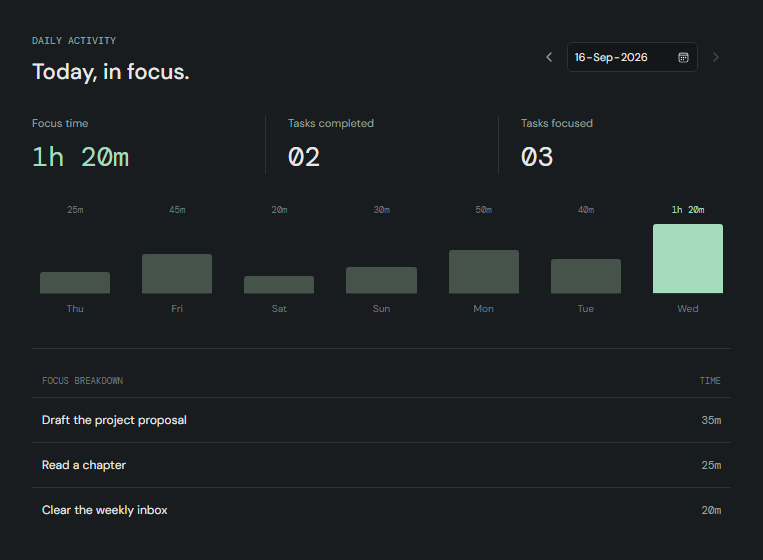
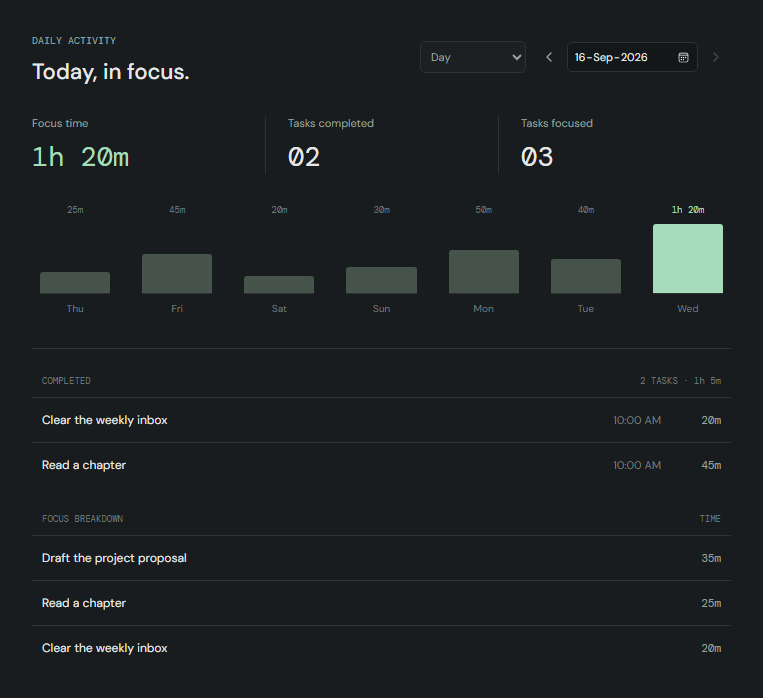
Release v1.2.0 with activity date ranges
Activity can show tasks completed in the last 7 days, this month, last month, or a custom date range, with focus time totals and a grouped chart. Archived tasks are included. Updates README and activity screenshot, and lets the Windows build helper use any npm on PATH.

diff --git a/src/App.tsx b/src/App.tsx
@@ -3,7 +3,7 @@ import { DndContext, KeyboardSensor, PointerSensor, closestCenter, useSensor, us
 import { SortableContext, sortableKeyboardCoordinates, useSortable, verticalListSortingStrategy } from '@dnd-kit/sortable'
 import { CSS } from '@dnd-kit/utilities'
 import { Activity, Archive, ArrowDown, ArrowUp, ArrowUpRight, CalendarDays, Check, CheckCheck, ChevronLeft, ChevronRight, Circle, CircleCheck, Clock3, GripVertical, ListOrdered, Maximize2, Minimize2, MoreHorizontal, Pause, Pencil, Pin, PinOff, Play, Plus, RotateCcw, Search, Settings, ShieldCheck, Trash2, TriangleAlert, X } from 'lucide-react'
-import { clock, dailySummary, dayKey, duration, makeTask, parseTags, taskMilliseconds, transition, type Action, type QueueState, type QueueTask } from './model'
+import { clock, dailySummary, dayKey, duration, makeTask, parseDayKey, parseTags, presetRange, rangeBuckets, rangeSummary, taskMilliseconds, transition, type Action, type ActivityRange, type QueueState, type QueueTask } from './model'
 import { desktop, saveQueue } from './storage'
 import { dragOverlay, initializeTray, saveOverlayPreferences, setCompactWindow, watchOverlayPreferences } from './windowMode'
 import { watchSession, type SessionState } from './session'
@@ -11,6 +11,11 @@ import { loadStartupSettings, saveStartupSettings, type StartupSettings } from '
 import privacyNotice from '../PRIVACY.txt?raw'
 
 type View = 'queued' | 'completed' | 'archived' | 'activity'
+const rangeTitles = { week: 'Last 7 days', month: 'This month', 'last-month': 'Last month', custom: 'Custom range' } as const
+
+function formatDay(key: string, options: Intl.DateTimeFormatOptions = { month: 'short', day: 'numeric', year: 'numeric' }) {
+  return parseDayKey(key).toLocaleDateString(undefined, options)
+}
 type DialogState = { kind: 'edit'; task?: QueueTask } | { kind: 'delete'; task: QueueTask } | { kind: 'startup'; firstRun: boolean } | { kind: 'privacy' | 'purge-history' } | null
 
 function IconButton({ label, children, onClick, disabled = false, active = false }: { label: string; children: ReactNode; onClick: () => void; disabled?: boolean; active?: boolean }) {
@@ -152,6 +157,8 @@ export default function App({ initialState, initialStartup }: { initialState: Qu
   const locked = useRef(false)
   const lastLock = useRef(Date.now())
   const [activityDay, setActivityDay] = useState(dayKey(new Date()))
+  const [activityRange, setActivityRange] = useState<ActivityRange>('day')
+  const [customRange, setCustomRange] = useState({ from: activityDay, to: activityDay })
   const searchRef = useRef<HTMLInputElement>(null)
   const writeVersion = useRef(0)
   const sensors = useSensors(useSensor(PointerSensor, { activationConstraint: { distance: 6 } }), useSensor(KeyboardSensor, { coordinateGetter: sortableKeyboardCoordinates }))
@@ -315,21 +322,39 @@ export default function App({ initialState, initialStartup }: { initialState: Qu
   const running = state.runningSince !== null
   const today = dayKey(new Date(now))
   const summary = dailySummary(state, new Date(now), now)
-  const daySummary = dailySummary(state, new Date(`${activityDay}T12:00:00`), now)
   const allTags = [...new Set(state.tasks.flatMap(task => task.tags))].sort()
   const visible = state.tasks.filter(task => task.status === view
     && `${task.title} ${task.tags.join(' ')}`.toLowerCase().includes(search.toLowerCase())
     && (!tag || task.tags.includes(tag))
     && (!due || (due === 'today' ? task.due === today : due === 'overdue' ? !!task.due && task.due < today : !task.due)))
   const counts = { queued: queued.length, completed: state.tasks.filter(task => task.status === 'completed').length, archived: state.tasks.filter(task => task.status === 'archived').length }
-  const week = Array.from({ length: 7 }, (_, index) => {
-    const date = new Date(`${activityDay}T12:00:00`)
-    date.setDate(date.getDate() - 6 + index)
-    return { date, ...dailySummary(state, date, now) }
-  })
-  const maxTime = Math.max(3600000, ...week.map(day => day.milliseconds))
+  const shownRange = activityRange === 'day' ? { from: activityDay, to: activityDay } : activityRange === 'custom' ? customRange : presetRange(activityRange, new Date(now))
+  const activity = rangeSummary(state, parseDayKey(shownRange.from), parseDayKey(shownRange.to), now)
+  const completedTime = activity.completed.reduce((total, task) => total + taskMilliseconds(state, task.id, now), 0)
+  const chart = activityRange === 'day'
+    ? { unit: 'day' as const, buckets: Array.from({ length: 7 }, (_, index) => { const date = parseDayKey(activityDay); date.setDate(date.getDate() - 6 + index); return { from: dayKey(date), to: dayKey(date) } }) }
+    : rangeBuckets(shownRange.from, shownRange.to)
+  const bars = chart.buckets.map(bucket => ({ ...bucket, milliseconds: rangeSummary(state, parseDayKey(bucket.from), parseDayKey(bucket.to), now).milliseconds }))
+  const maxTime = Math.max(3600000, ...bars.map(bar => bar.milliseconds))
+  const labelEvery = bars.length <= 7 ? 1 : Math.ceil(bars.length / 7)
 
   function changeView(next: View) { setView(next); setSearch(''); setTag(''); setDue('') }
+  function changeRange(next: ActivityRange) {
+    if (next === 'custom') setCustomRange(shownRange)
+    setActivityRange(next)
+  }
+  function changeCustom(edge: 'from' | 'to', value: string) {
+    if (!value || value > today) return
+    setCustomRange(edge === 'from' ? { from: value, to: value > customRange.to ? value : customRange.to } : { from: value < customRange.from ? value : customRange.from, to: value })
+  }
+  function selectBar(bucket: { from: string; to: string }) {
+    if (bucket.from === bucket.to) { setActivityRange('day'); setActivityDay(bucket.from) } else { setActivityRange('custom'); setCustomRange(bucket) }
+  }
+  function barLabel(bucket: { from: string }) {
+    if (chart.unit === 'month') return formatDay(bucket.from, { month: 'short' })
+    if (chart.unit === 'week') return formatDay(bucket.from, { month: 'short', day: 'numeric' })
+    return formatDay(bucket.from, bars.length <= 7 ? { weekday: 'short' } : { day: 'numeric' })
+  }
   function dragEnd(event: DragEndEvent) {
     if (event.over && event.active.id !== event.over.id) dispatch({ type: 'move', id: String(event.active.id), overId: String(event.over.id) })
   }
@@ -389,11 +414,19 @@ export default function App({ initialState, initialStartup }: { initialState: Qu
         <div className="list-heading"><span>{view === 'queued' ? 'YOUR QUEUE' : view === 'completed' ? 'COMPLETED TASKS' : 'ARCHIVED TASKS'}</span><span>{visible.length} {visible.length === 1 ? 'TASK' : 'TASKS'}</span></div>
         {visible.length ? <DndContext sensors={sensors} collisionDetection={closestCenter} onDragEnd={dragEnd}><SortableContext items={visible.map(task => task.id)} strategy={verticalListSortingStrategy}><ul className="task-list">{visible.map((task, index) => <TaskRow key={task.id} task={task} index={index} state={state} now={now} dispatch={dispatch} edit={() => setDialog({ kind: 'edit', task })} remove={() => setDialog({ kind: 'delete', task })} previous={visible[index - 1]?.id} next={visible[index + 1]?.id} />)}</ul></SortableContext></DndContext> : <div className="empty-state">{search || tag || due ? <Search /> : view === 'queued' ? <ListOrdered /> : view === 'completed' ? <CheckCheck /> : <Archive />}<h3>{search || tag || due ? 'No matching tasks.' : view === 'queued' ? 'Your queue is clear.' : view === 'completed' ? 'Nothing completed yet.' : 'Nothing archived yet.'}</h3>{search || tag || due ? <button className="secondary-button" onClick={() => { setSearch(''); setTag(''); setDue('') }}>Clear filters</button> : view === 'queued' && <button className="text-button" onClick={() => setDialog({ kind: 'edit' })}><Plus size={15} />Add a task</button>}</div>}
         {!!visible.length && view === 'queued' && <button className="add-row" onClick={() => setDialog({ kind: 'edit' })}><Plus size={16} />Add a task</button>}
-      </section> : <section className="activity-section" aria-label="Daily activity">
-        <div className="activity-header"><div><span className="eyebrow">DAILY ACTIVITY</span><h2>{activityDay === today ? 'Today, in focus.' : new Date(`${activityDay}T12:00:00`).toLocaleDateString(undefined, { month: 'long', day: 'numeric' })}</h2></div><div className="date-controls"><IconButton label="Previous day" onClick={() => changeDay(-1)}><ChevronLeft /></IconButton><input aria-label="Activity date" type="date" max={today} value={activityDay} onChange={event => { if (event.target.value && event.target.value <= today) setActivityDay(event.target.value) }} /><IconButton label="Next day" disabled={activityDay >= today} onClick={() => changeDay(1)}><ChevronRight /></IconButton></div></div>
-        <div className="activity-stats"><div><span>Focus time</span><strong>{duration(daySummary.milliseconds)}</strong></div><div><span>Tasks completed</span><strong>{daySummary.completed.toString().padStart(2, '0')}</strong></div><div><span>Tasks focused</span><strong>{daySummary.byTask.length.toString().padStart(2, '0')}</strong></div></div>
-        <div className="week-chart" aria-label="Focus time over seven days">{week.map(day => <button className={dayKey(day.date) === activityDay ? 'selected' : ''} key={dayKey(day.date)} title={`${day.date.toLocaleDateString()}: ${duration(day.milliseconds)}`} onClick={() => setActivityDay(dayKey(day.date))}><span className="chart-value">{duration(day.milliseconds)}</span><span className="bar-track"><span style={{ height: `${Math.max(2, day.milliseconds / maxTime * 100)}%` }} /></span><span>{day.date.toLocaleDateString(undefined, { weekday: 'short' })}</span></button>)}</div>
-        <div className="list-heading"><span>FOCUS BREAKDOWN</span><span>TIME</span></div>{daySummary.byTask.length ? <ul className="breakdown-list">{daySummary.byTask.map(([id, entry]) => <li key={id}><span>{entry.title}</span><strong>{duration(entry.milliseconds)}</strong></li>)}</ul> : <div className="empty-state small"><Clock3 /><h3>No focus time recorded.</h3></div>}
+      </section> : <section className="activity-section" aria-label="Activity">
+        <div className="activity-header"><div>{activityRange === 'day' ? <><span className="eyebrow">DAILY ACTIVITY</span><h2>{activityDay === today ? 'Today, in focus.' : formatDay(activityDay, { month: 'long', day: 'numeric' })}</h2></> : <><span className="eyebrow">ACTIVITY</span><h2>{rangeTitles[activityRange]}</h2><span className="range-dates">{formatDay(shownRange.from)} – {formatDay(shownRange.to)}</span></>}</div>
+          <div className="activity-controls"><select aria-label="Activity range" value={activityRange} onChange={event => changeRange(event.target.value as ActivityRange)}><option value="day">Day</option><option value="week">Last 7 days</option><option value="month">This month</option><option value="last-month">Last month</option><option value="custom">Custom range</option></select>
+            {activityRange === 'day' && <div className="date-controls"><IconButton label="Previous day" onClick={() => changeDay(-1)}><ChevronLeft /></IconButton><input aria-label="Activity date" type="date" max={today} value={activityDay} onChange={event => { if (event.target.value && event.target.value <= today) setActivityDay(event.target.value) }} /><IconButton label="Next day" disabled={activityDay >= today} onClick={() => changeDay(1)}><ChevronRight /></IconButton></div>}
+            {activityRange === 'custom' && <div className="date-controls"><input aria-label="From date" type="date" max={today} value={customRange.from} onChange={event => changeCustom('from', event.target.value)} /><span className="range-separator">–</span><input aria-label="To date" type="date" max={today} value={customRange.to} onChange={event => changeCustom('to', event.target.value)} /></div>}
+          </div></div>
+        <div className="activity-stats"><div><span>Focus time</span><strong>{duration(activity.milliseconds)}</strong></div><div><span>Tasks completed</span><strong>{activity.completed.length.toString().padStart(2, '0')}</strong></div><div><span>Tasks focused</span><strong>{activity.byTask.length.toString().padStart(2, '0')}</strong></div></div>
+        <div className={`week-chart${bars.length > 7 ? ' dense' : ''}`} style={{ gridTemplateColumns: `repeat(${bars.length}, minmax(0, 1fr))` }} aria-label={`Focus time by ${chart.unit}`}>{bars.map((bar, index) => {
+          const label = `${bar.from === bar.to ? formatDay(bar.from) : `${formatDay(bar.from)} – ${formatDay(bar.to)}`}: ${duration(bar.milliseconds)}`
+          return <button className={activityRange === 'day' && bar.from === activityDay ? 'selected' : ''} key={bar.from} title={label} aria-label={label} onClick={() => selectBar(bar)}><span className="chart-value">{duration(bar.milliseconds)}</span><span className="bar-track"><span style={{ height: `${Math.max(2, bar.milliseconds / maxTime * 100)}%` }} /></span><span className="bar-label">{index % labelEvery === 0 ? barLabel(bar) : ''}</span></button>
+        })}</div>
+        <div className="list-heading"><span>COMPLETED</span><span>{activity.completed.length} {activity.completed.length === 1 ? 'TASK' : 'TASKS'} · {duration(completedTime)}</span></div>{activity.completed.length ? <ul className="completed-list">{activity.completed.map(task => <li key={task.id}><span className="completed-title">{task.title}{task.status === 'archived' && <span className="status-badge">Archived</span>}</span><span className="completed-when">{activityRange === 'day' ? new Date(task.completedAt ?? 0).toLocaleTimeString(undefined, { hour: 'numeric', minute: '2-digit' }) : new Date(task.completedAt ?? 0).toLocaleDateString(undefined, { month: 'short', day: 'numeric' })}</span><strong title="Total focus time">{duration(taskMilliseconds(state, task.id, now))}</strong></li>)}</ul> : <div className="empty-state small"><CheckCheck /><h3>No tasks completed in this period.</h3></div>}
+        <div className="list-heading spaced"><span>FOCUS BREAKDOWN</span><span>TIME</span></div>{activity.byTask.length ? <ul className="breakdown-list">{activity.byTask.map(([id, entry]) => <li key={id}><span>{entry.title}</span><strong>{duration(entry.milliseconds)}</strong></li>)}</ul> : <div className="empty-state small"><Clock3 /><h3>No focus time recorded.</h3></div>}
       </section>}
     </main>
     {notice && <div className="notice" role="alert"><span>{notice}</span><IconButton label="Dismiss message" onClick={() => setNotice('')}><X /></IconButton></div>}

diff --git a/src/model.test.ts b/src/model.test.ts
@@ -1,6 +1,6 @@
 import { describe, it } from 'node:test'
 import assert from 'node:assert/strict'
-import { checkpoint, dailySummary, emptyState, persistedState, restoreState, taskMilliseconds, transition, type QueueState, type QueueTask } from './model.ts'
+import { checkpoint, dailySummary, emptyState, persistedState, presetRange, rangeBuckets, rangeSummary, restoreState, taskMilliseconds, transition, type QueueState, type QueueTask } from './model.ts'
 
 const first: QueueTask = { id: 'first', title: 'First task', tags: ['work'], due: '', status: 'queued', createdAt: 0, completedAt: null }
 const second: QueueTask = { ...first, id: 'second', title: 'Second task' }
@@ -153,5 +153,66 @@ describe('queue and focus', () => {
     assert.equal(transition(state, { type: 'focus', id: 'first' }, 2000).focusId, null)
     assert.throws(() => restoreState({ version: 2 }))
     assert.throws(() => restoreState({ ...setup(), tasks: [first, first] }))
+  })
+})
+
+describe('activity ranges', () => {
+  it('builds last 7 days, this month and last month from local calendar days', () => {
+    const today = new Date(2026, 2, 5, 15, 30)
+    assert.deepEqual(presetRange('week', today), { from: '2026-02-27', to: '2026-03-05' })
+    assert.deepEqual(presetRange('month', today), { from: '2026-03-01', to: '2026-03-05' })
+    assert.deepEqual(presetRange('last-month', today), { from: '2026-02-01', to: '2026-02-28' })
+    assert.deepEqual(presetRange('last-month', new Date(2026, 0, 1)), { from: '2025-12-01', to: '2025-12-31' })
+  })
+
+  it('includes completed and archived tasks within inclusive day bounds, newest first', () => {
+    const at = (day: number, hour = 12, minute = 0, second = 0, millisecond = 0) => new Date(2026, 2, day, hour, minute, second, millisecond).getTime()
+    const done = (id: string, completedAt: number | null, status: QueueTask['status'] = 'completed'): QueueTask => ({ ...first, id, title: id, status, completedAt })
+    const state: QueueState = {
+      ...emptyState(),
+      tasks: [
+        done('before', at(1, 23, 59, 59, 999)),
+        done('start', at(2, 0)),
+        done('archived', at(5), 'archived'),
+        done('end', at(8, 23, 59, 59, 999)),
+        done('after', at(9, 0)),
+        done('restored', null, 'queued'),
+        done('archived-unfinished', null, 'archived'),
+      ],
+    }
+    const summary = rangeSummary(state, new Date(2026, 2, 2), new Date(2026, 2, 8), at(12))
+    assert.deepEqual(summary.completed.map(task => task.id), ['end', 'archived', 'start'])
+    assert.equal(dailySummary(state, new Date(2026, 2, 5), at(12)).completed, 1)
+  })
+
+  it('sums focus time across days and clips sessions at range edges', () => {
+    const state: QueueState = {
+      ...setup(),
+      sessions: [
+        { taskId: 'first', title: 'First task', start: new Date(2026, 2, 1, 23, 50).getTime(), end: new Date(2026, 2, 2, 0, 10).getTime() },
+        { taskId: 'second', title: 'Second task', start: new Date(2026, 2, 4, 9).getTime(), end: new Date(2026, 2, 4, 10).getTime() },
+        { taskId: 'first', title: 'First task', start: new Date(2026, 2, 8, 23, 55).getTime(), end: new Date(2026, 2, 9, 0, 5).getTime() },
+      ],
+    }
+    const summary = rangeSummary(state, new Date(2026, 2, 2), new Date(2026, 2, 8), Date.now())
+    assert.equal(summary.milliseconds, (10 + 60 + 5) * 60000)
+    assert.deepEqual(summary.byTask.map(([id, entry]) => [id, entry.milliseconds]), [['second', 3600000], ['first', 15 * 60000]])
+  })
+
+  it('charts by day up to 31 days, by week up to 26 weeks, then by month', () => {
+    const march = rangeBuckets('2026-03-01', '2026-03-31')
+    assert.equal(march.unit, 'day')
+    assert.equal(march.buckets.length, 31)
+    assert.deepEqual(march.buckets.slice(6, 9).map(bucket => bucket.from), ['2026-03-07', '2026-03-08', '2026-03-09'])
+    assert.deepEqual(march.buckets.at(-1), { from: '2026-03-31', to: '2026-03-31' })
+    const weeks = rangeBuckets('2026-01-01', '2026-02-01')
+    assert.equal(weeks.unit, 'week')
+    assert.deepEqual(weeks.buckets.map(bucket => bucket.from), ['2026-01-01', '2026-01-08', '2026-01-15', '2026-01-22', '2026-01-29'])
+    assert.deepEqual(weeks.buckets.at(-1), { from: '2026-01-29', to: '2026-02-01' })
+    const months = rangeBuckets('2025-01-15', '2025-12-31')
+    assert.equal(months.unit, 'month')
+    assert.equal(months.buckets.length, 12)
+    assert.deepEqual(months.buckets[0], { from: '2025-01-15', to: '2025-01-31' })
+    assert.deepEqual(months.buckets.at(-1), { from: '2025-12-01', to: '2025-12-31' })
   })
 })

diff --git a/tests/workflows.spec.ts b/tests/workflows.spec.ts
@@ -284,3 +284,74 @@ test('overlay is translucent, stays 88px tall and handles long task text at narr
     await page.screenshot({ path: `test-results/overlay-${width}-hover.png`, omitBackground: true })
   }
 })
+
+test('activity lists completed and archived tasks for 7 days, this month, last month and custom ranges', async ({ page }) => {
+  const at = (value: string) => new Date(value).getTime()
+  const task = (id: string, title: string, status: string, completedAt: number | null) => ({ id, title, tags: [], due: '', status, createdAt: at('2026-09-01T08:00:00'), completedAt })
+  const state = {
+    version: 1,
+    tasks: [
+      task('recent', 'Recent report', 'completed', at('2026-11-11T15:00:00')),
+      task('archived', 'Archived review', 'archived', at('2026-11-06T09:00:00')),
+      task('early', 'Early November', 'completed', at('2026-11-02T11:00:00')),
+      task('october', 'October wrap-up', 'completed', at('2026-10-20T17:00:00')),
+      task('september', 'Old September task', 'completed', at('2026-09-10T10:00:00')),
+      task('restored', 'Restored task', 'queued', null),
+    ],
+    sessions: [
+      { taskId: 'recent', title: 'Recent report', start: at('2026-11-11T14:00:00'), end: at('2026-11-11T15:00:00') },
+      { taskId: 'october', title: 'October wrap-up', start: at('2026-10-20T10:00:00'), end: at('2026-10-20T10:30:00') },
+    ],
+    focusId: null,
+    runningSince: null,
+  }
+  await page.clock.install({ time: new Date('2026-11-12T10:00:00') })
+  await page.addInitScript(state => {
+    if (!localStorage.getItem('priority-queue.v1')) localStorage.setItem('priority-queue.v1', JSON.stringify(state))
+  }, state)
+  await page.goto('/')
+  await page.getByRole('button', { name: 'Activity', exact: true }).click()
+  const range = page.getByLabel('Activity range')
+  const completed = page.locator('.completed-list li')
+  await expect(page.getByText('No tasks completed in this period.')).toBeVisible()
+
+  await range.selectOption('week')
+  await expect(page.getByRole('heading', { name: 'Last 7 days' })).toBeVisible()
+  await expect(completed).toHaveText([/^Recent report/, /^Archived reviewArchived/])
+  await expect(page.locator('.activity-section .list-heading').first()).toContainText('2 TASKS · 1h 0m')
+  await expect(page.locator('.activity-stats > div').nth(1)).toContainText('02')
+  await expect(page.locator('.week-chart button')).toHaveCount(7)
+
+  await range.selectOption('month')
+  await expect(completed).toHaveText([/^Recent report/, /^Archived review/, /^Early November/])
+  await expect(page.locator('.week-chart button')).toHaveCount(12)
+
+  await range.selectOption('last-month')
+  await expect(completed).toHaveText([/^October wrap-up/])
+  await expect(page.locator('.activity-stats > div').first()).toContainText('30m')
+  await expect(page.locator('.week-chart button')).toHaveCount(31)
+
+  await range.selectOption('custom')
+  await expect(page.getByLabel('From date')).toHaveValue('2026-10-01')
+  await expect(page.getByLabel('To date')).toHaveValue('2026-10-31')
+  await page.getByLabel('From date').fill('2026-09-01')
+  await expect(completed).toHaveText([/^October wrap-up/, /^Old September task/])
+  await expect(page.locator('.week-chart button')).toHaveCount(9)
+  await page.getByLabel('To date').fill('2026-09-30')
+  await expect(completed).toHaveText([/^Old September task/])
+  await page.getByLabel('From date').fill('2026-10-15')
+  await expect(page.getByLabel('To date')).toHaveValue('2026-10-15')
+  await expect(page.getByText('No tasks completed in this period.')).toBeVisible()
+
+  await range.selectOption('week')
+  await page.locator('.week-chart button').nth(5).click()
+  await expect(range).toHaveValue('day')
+  await expect(page.getByLabel('Activity date')).toHaveValue('2026-11-11')
+  await expect(completed).toHaveText([/^Recent report/])
+
+  await page.setViewportSize({ width: 360, height: 800 })
+  await range.selectOption('custom')
+  await page.getByLabel('From date').fill('2026-09-01')
+  expect(await page.evaluate(() => document.documentElement.scrollWidth <= window.innerWidth)).toBe(true)
+  await page.screenshot({ path: 'test-results/activity-range-mobile.png', fullPage: true })
+})

diff --git a/src/theme.css b/src/theme.css
@@ -133,6 +133,10 @@ h1 { font-size: 21px; line-height: 1.15; font-weight: 650; }
 .activity-section { padding: 28px 32px; }
 .activity-header { display: flex; justify-content: space-between; align-items: center; gap: 20px; }
 .activity-header h2 { font-size: 22px; font-weight: 500; margin-top: 8px; }
+.range-dates { display: block; font-size: 11px; color: var(--muted); margin-top: 6px; }
+.activity-controls { display: flex; flex-wrap: wrap; align-items: center; justify-content: flex-end; gap: 8px; }
+.activity-controls select { font-size: 11px; color: var(--muted); padding: 7px 6px; background: #1d2022; }
+.range-separator { color: var(--faint); padding-inline: 4px; }
 .date-controls { display: flex; align-items: center; gap: 3px; }
 .date-controls input { font-size: 11px; padding: 6px; width: 131px; min-width: 0; }
 .activity-stats { display: grid; grid-template-columns: repeat(3, minmax(0, 1fr)); margin-block: 30px; }
@@ -144,6 +148,11 @@ h1 { font-size: 21px; line-height: 1.15; font-weight: 650; }
 .week-chart { display: grid; grid-template-columns: repeat(7, minmax(0, 1fr)); height: 145px; gap: 16px; padding: 0 0 22px; border-bottom: 1px solid var(--line); margin-bottom: 26px; }
 .week-chart button { min-width: 0; display: flex; flex-direction: column; align-items: center; gap: 8px; color: var(--faint); font-size: 10px; padding: 0 8px; border-radius: 2px; }
 .week-chart button:hover { background: #ffffff05; }
+.week-chart.dense { gap: 3px; overflow-x: clip; }
+.week-chart.dense button { padding-inline: 0; }
+.week-chart.dense .chart-value { visibility: hidden; }
+.week-chart.dense .bar-label { align-self: flex-start; white-space: nowrap; }
+.week-chart.dense button:last-child .bar-label { align-self: flex-end; }
 .bar-track { display: flex; align-items: flex-end; height: 70px; width: 100%; border-bottom: 1px solid var(--line); }
 .bar-track > span { width: 100%; background: #46534b; border-radius: 3px 3px 0 0; }
 .selected .bar-track > span { background: var(--mint); }
@@ -153,6 +162,13 @@ h1 { font-size: 21px; line-height: 1.15; font-weight: 650; }
 .breakdown-list li { display: flex; gap: 20px; align-items: center; justify-content: space-between; padding: 14px 10px; border-top: 1px solid var(--line); font-size: 12px; }
 .breakdown-list li span { overflow-wrap: anywhere; min-width: 0; }
 .breakdown-list strong { font-family: var(--mono); font-size: 11px; color: var(--muted); white-space: nowrap; font-weight: 400; }
+.completed-list { list-style: none; margin: 0; padding: 0; }
+.completed-list li { display: flex; gap: 16px; align-items: center; padding: 14px 10px; border-top: 1px solid var(--line); font-size: 12px; }
+.completed-title { flex: 1; min-width: 0; overflow-wrap: anywhere; }
+.status-badge { font-family: var(--mono); font-size: 9px; color: var(--muted); background: #ffffff08; border-radius: 3px; padding: 2px 5px; margin-left: 8px; white-space: nowrap; }
+.completed-when { font-size: 11px; color: var(--faint); white-space: nowrap; }
+.completed-list strong { font-family: var(--mono); font-size: 11px; color: var(--muted); white-space: nowrap; font-weight: 400; min-width: 44px; text-align: right; }
+.list-heading.spaced { margin-top: 26px; }
 
 .app-footer { margin-top: auto; display: flex; align-items: center; justify-content: space-between; gap: 20px; min-height: 51px; border-top: 1px solid var(--line); padding: 14px 32px; font-family: var(--mono); font-size: 9px; color: var(--faint); }
 .app-footer > span:first-child { display: flex; align-items: center; gap: 7px; overflow-wrap: anywhere; min-width: 0; }

diff --git a/src/model.ts b/src/model.ts
@@ -151,9 +151,43 @@ export function dayKey(date: Date): string {
   return `${date.getFullYear()}-${String(date.getMonth() + 1).padStart(2, '0')}-${String(date.getDate()).padStart(2, '0')}`
 }
 
+export type ActivityRange = 'day' | 'week' | 'month' | 'last-month' | 'custom'
+
+export function parseDayKey(key: string): Date {
+  const [year, month, day] = key.split('-').map(Number)
+  return new Date(year, month - 1, day)
+}
+
+export function presetRange(range: 'week' | 'month' | 'last-month', today: Date): { from: string; to: string } {
+  const year = today.getFullYear(), month = today.getMonth(), day = today.getDate()
+  if (range === 'week') return { from: dayKey(new Date(year, month, day - 6)), to: dayKey(today) }
+  if (range === 'month') return { from: dayKey(new Date(year, month, 1)), to: dayKey(today) }
+  return { from: dayKey(new Date(year, month - 1, 1)), to: dayKey(new Date(year, month, 0)) }
+}
+
+export function rangeBuckets(from: string, to: string): { unit: 'day' | 'week' | 'month'; buckets: { from: string; to: string }[] } {
+  const start = parseDayKey(from), end = parseDayKey(to)
+  const days = Math.round((end.getTime() - start.getTime()) / 86400000) + 1
+  const unit = days <= 31 ? 'day' : days <= 182 ? 'week' : 'month'
+  const buckets: { from: string; to: string }[] = []
+  for (let cursor = start; cursor <= end;) {
+    const next = unit === 'month' ? new Date(cursor.getFullYear(), cursor.getMonth() + 1, 1)
+      : new Date(cursor.getFullYear(), cursor.getMonth(), cursor.getDate() + (unit === 'week' ? 7 : 1))
+    const last = new Date(next.getFullYear(), next.getMonth(), next.getDate() - 1)
+    buckets.push({ from: dayKey(cursor), to: dayKey(last < end ? last : end) })
+    cursor = next
+  }
+  return { unit, buckets }
+}
+
 export function dailySummary(state: QueueState, date: Date, now: number) {
-  const start = new Date(date.getFullYear(), date.getMonth(), date.getDate()).getTime()
-  const end = new Date(date.getFullYear(), date.getMonth(), date.getDate() + 1).getTime()
+  const { completed, ...summary } = rangeSummary(state, date, date, now)
+  return { ...summary, completed: completed.length }
+}
+
+export function rangeSummary(state: QueueState, from: Date, to: Date, now: number) {
+  const start = new Date(from.getFullYear(), from.getMonth(), from.getDate()).getTime()
+  const end = new Date(to.getFullYear(), to.getMonth(), to.getDate() + 1).getTime()
   const sessions = checkpoint(state, now).sessions
   const byTask = new Map<string, { title: string; milliseconds: number }>()
   let milliseconds = 0
@@ -167,7 +201,8 @@ export function dailySummary(state: QueueState, date: Date, now: number) {
       milliseconds: (previous?.milliseconds ?? 0) + overlap,
     })
   }
-  const completed = state.tasks.filter(task => task.completedAt !== null && task.completedAt >= start && task.completedAt < end).length
+  const completed = state.tasks.filter(task => task.completedAt !== null && task.completedAt >= start && task.completedAt < end)
+    .sort((first, second) => (second.completedAt ?? 0) - (first.completedAt ?? 0))
   return { milliseconds, completed, byTask: [...byTask.entries()].sort((first, second) => second[1].milliseconds - first[1].milliseconds) }
 }
 

diff --git a/README.md b/README.md
@@ -6,9 +6,9 @@
 
 ![Priority Queue with a focused task, its timer, four queued tasks, tags, due dates, and daily totals](docs/images/queue.png)
 
-*Real Windows app screenshots with fictional tasks. This guide describes v1.1.0.*
+*Real Windows app screenshots with fictional tasks. This guide describes v1.2.0.*
 
-> **v1.1.0:** Adds system tray controls for mini mode and makes full view a regular, unpinned window by default. Encrypted local storage, permanent task/history deletion, and the offline Privacy notice are retained. The installer is self-signed by **Ravindra Akula** and timestamped. This is not a publicly trusted certificate: Windows may still warn about an unknown publisher. Read the release notes, especially the encryption migration warning, before upgrading from v0.2.0 or earlier.
+> **v1.2.0:** The Activity tab can now show tasks completed in the last 7 days, this month, last month, or a custom date range, with total focus time for each. System tray controls, encrypted local storage, permanent task/history deletion, and the offline Privacy notice are retained. The installer is self-signed by **Ravindra Akula** and timestamped. This is not a publicly trusted certificate: Windows may still warn about an unknown publisher. Read the release notes, especially the encryption migration warning, before upgrading from v0.2.0 or earlier.
 
 ## Get started
 
@@ -80,15 +80,18 @@ An open editing dialog must be finished or closed before the tray can switch to 
 
 Open **Activity** or select the arrow beside the Today totals.
 
-![Activity view showing daily focus time, completed and focused task counts, a seven-day chart, and per-task time breakdown](docs/images/activity.png)
+![Activity view showing daily focus time, completed and focused task counts, a seven-day chart, the tasks completed that day, and per-task time breakdown](docs/images/activity.png)
 
 Use the date picker, previous/next arrows, or a chart bar to inspect a day. You can see:
 
 - Total focus time, number of tasks completed, and number of tasks focused.
 - A seven-day view of your focus time.
+- The tasks you completed, newest first, with each task's total focus time. Tasks you later archived are included and marked **Archived**.
 - A per-task breakdown, ordered by time spent.
 
-Daily totals follow your local calendar, including sessions that cross midnight. The selected task's all-time timer and the day's total can therefore show different values.
+To look back further, change **Day** to **Last 7 days** (today and the six days before), **This month**, **Last month**, or **Custom range**. The totals, chart, and completed list then cover the whole period. Ranges up to 31 days chart each day, longer ranges chart by week, and ranges over 26 weeks chart by month. Select a bar to open that day or week.
+
+Daily totals follow your local calendar, including sessions that cross midnight. The selected task's all-time timer and the day's total can therefore show different values. Tasks returned to the queue no longer count as completed, and deleted tasks are gone from every range.
 
 **Try this:** at the end of a day, compare the breakdown with what you meant to prioritize. Reorder tomorrow's queue before closing the app.
 
